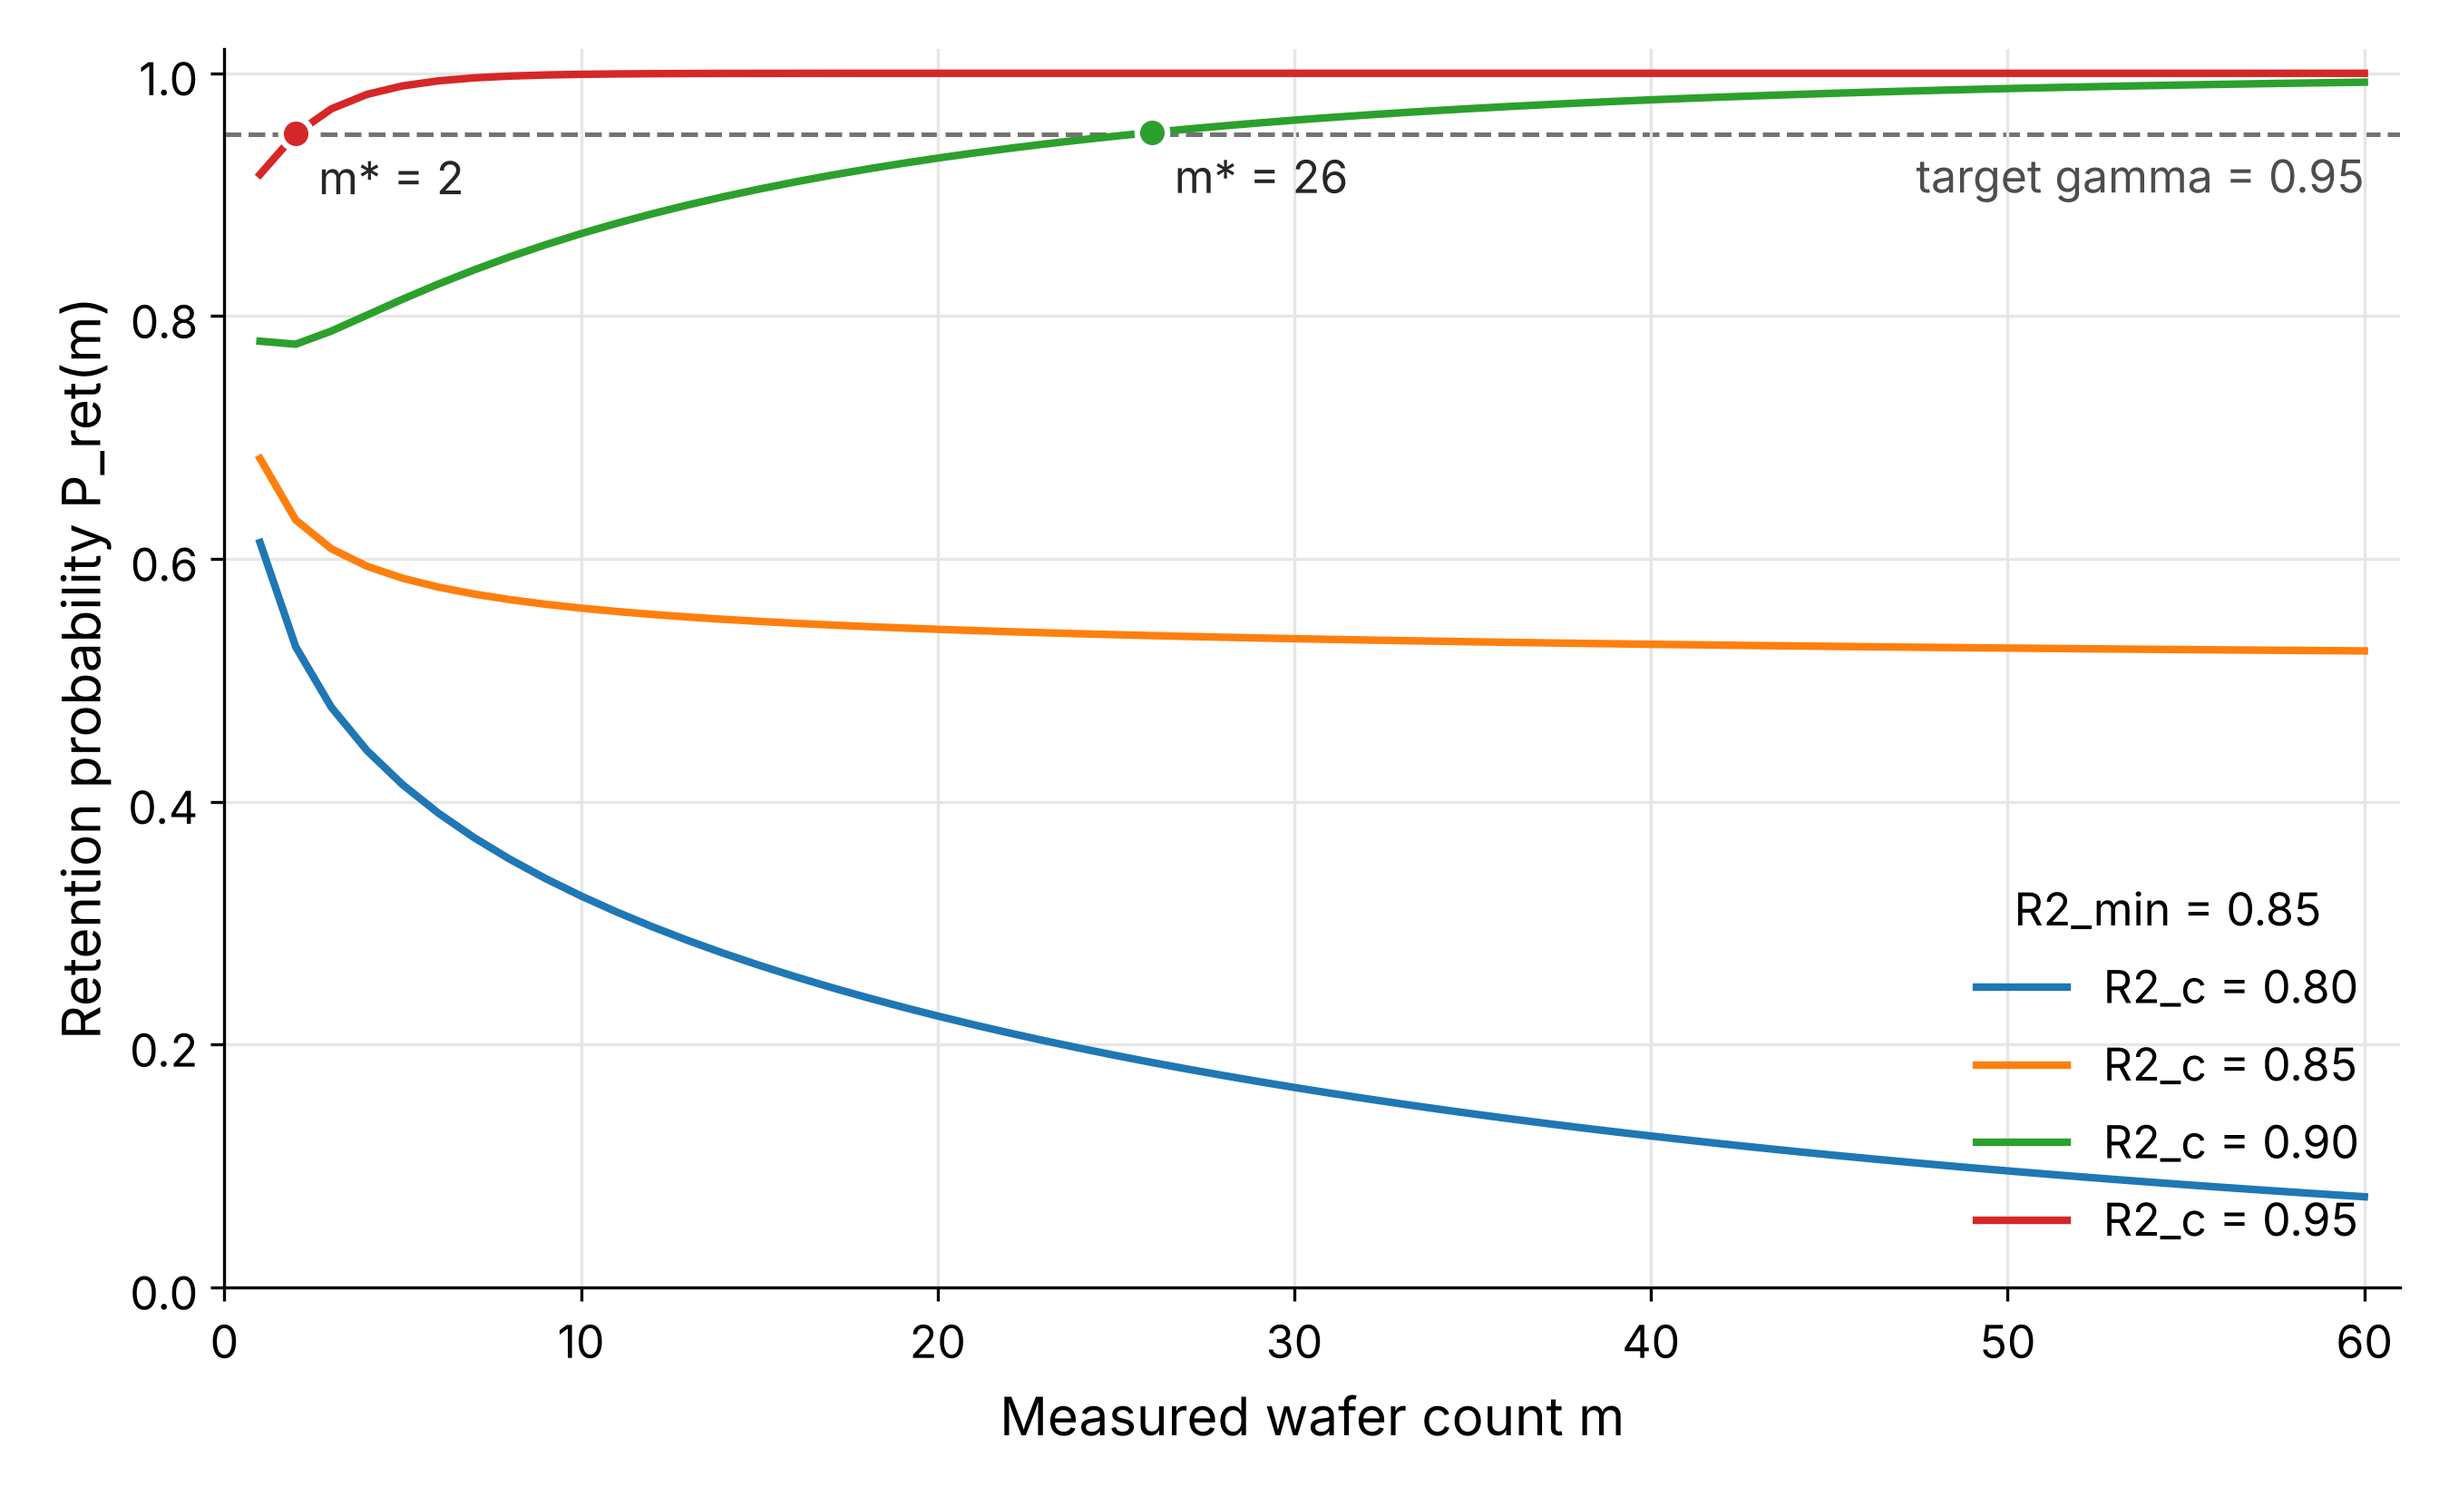
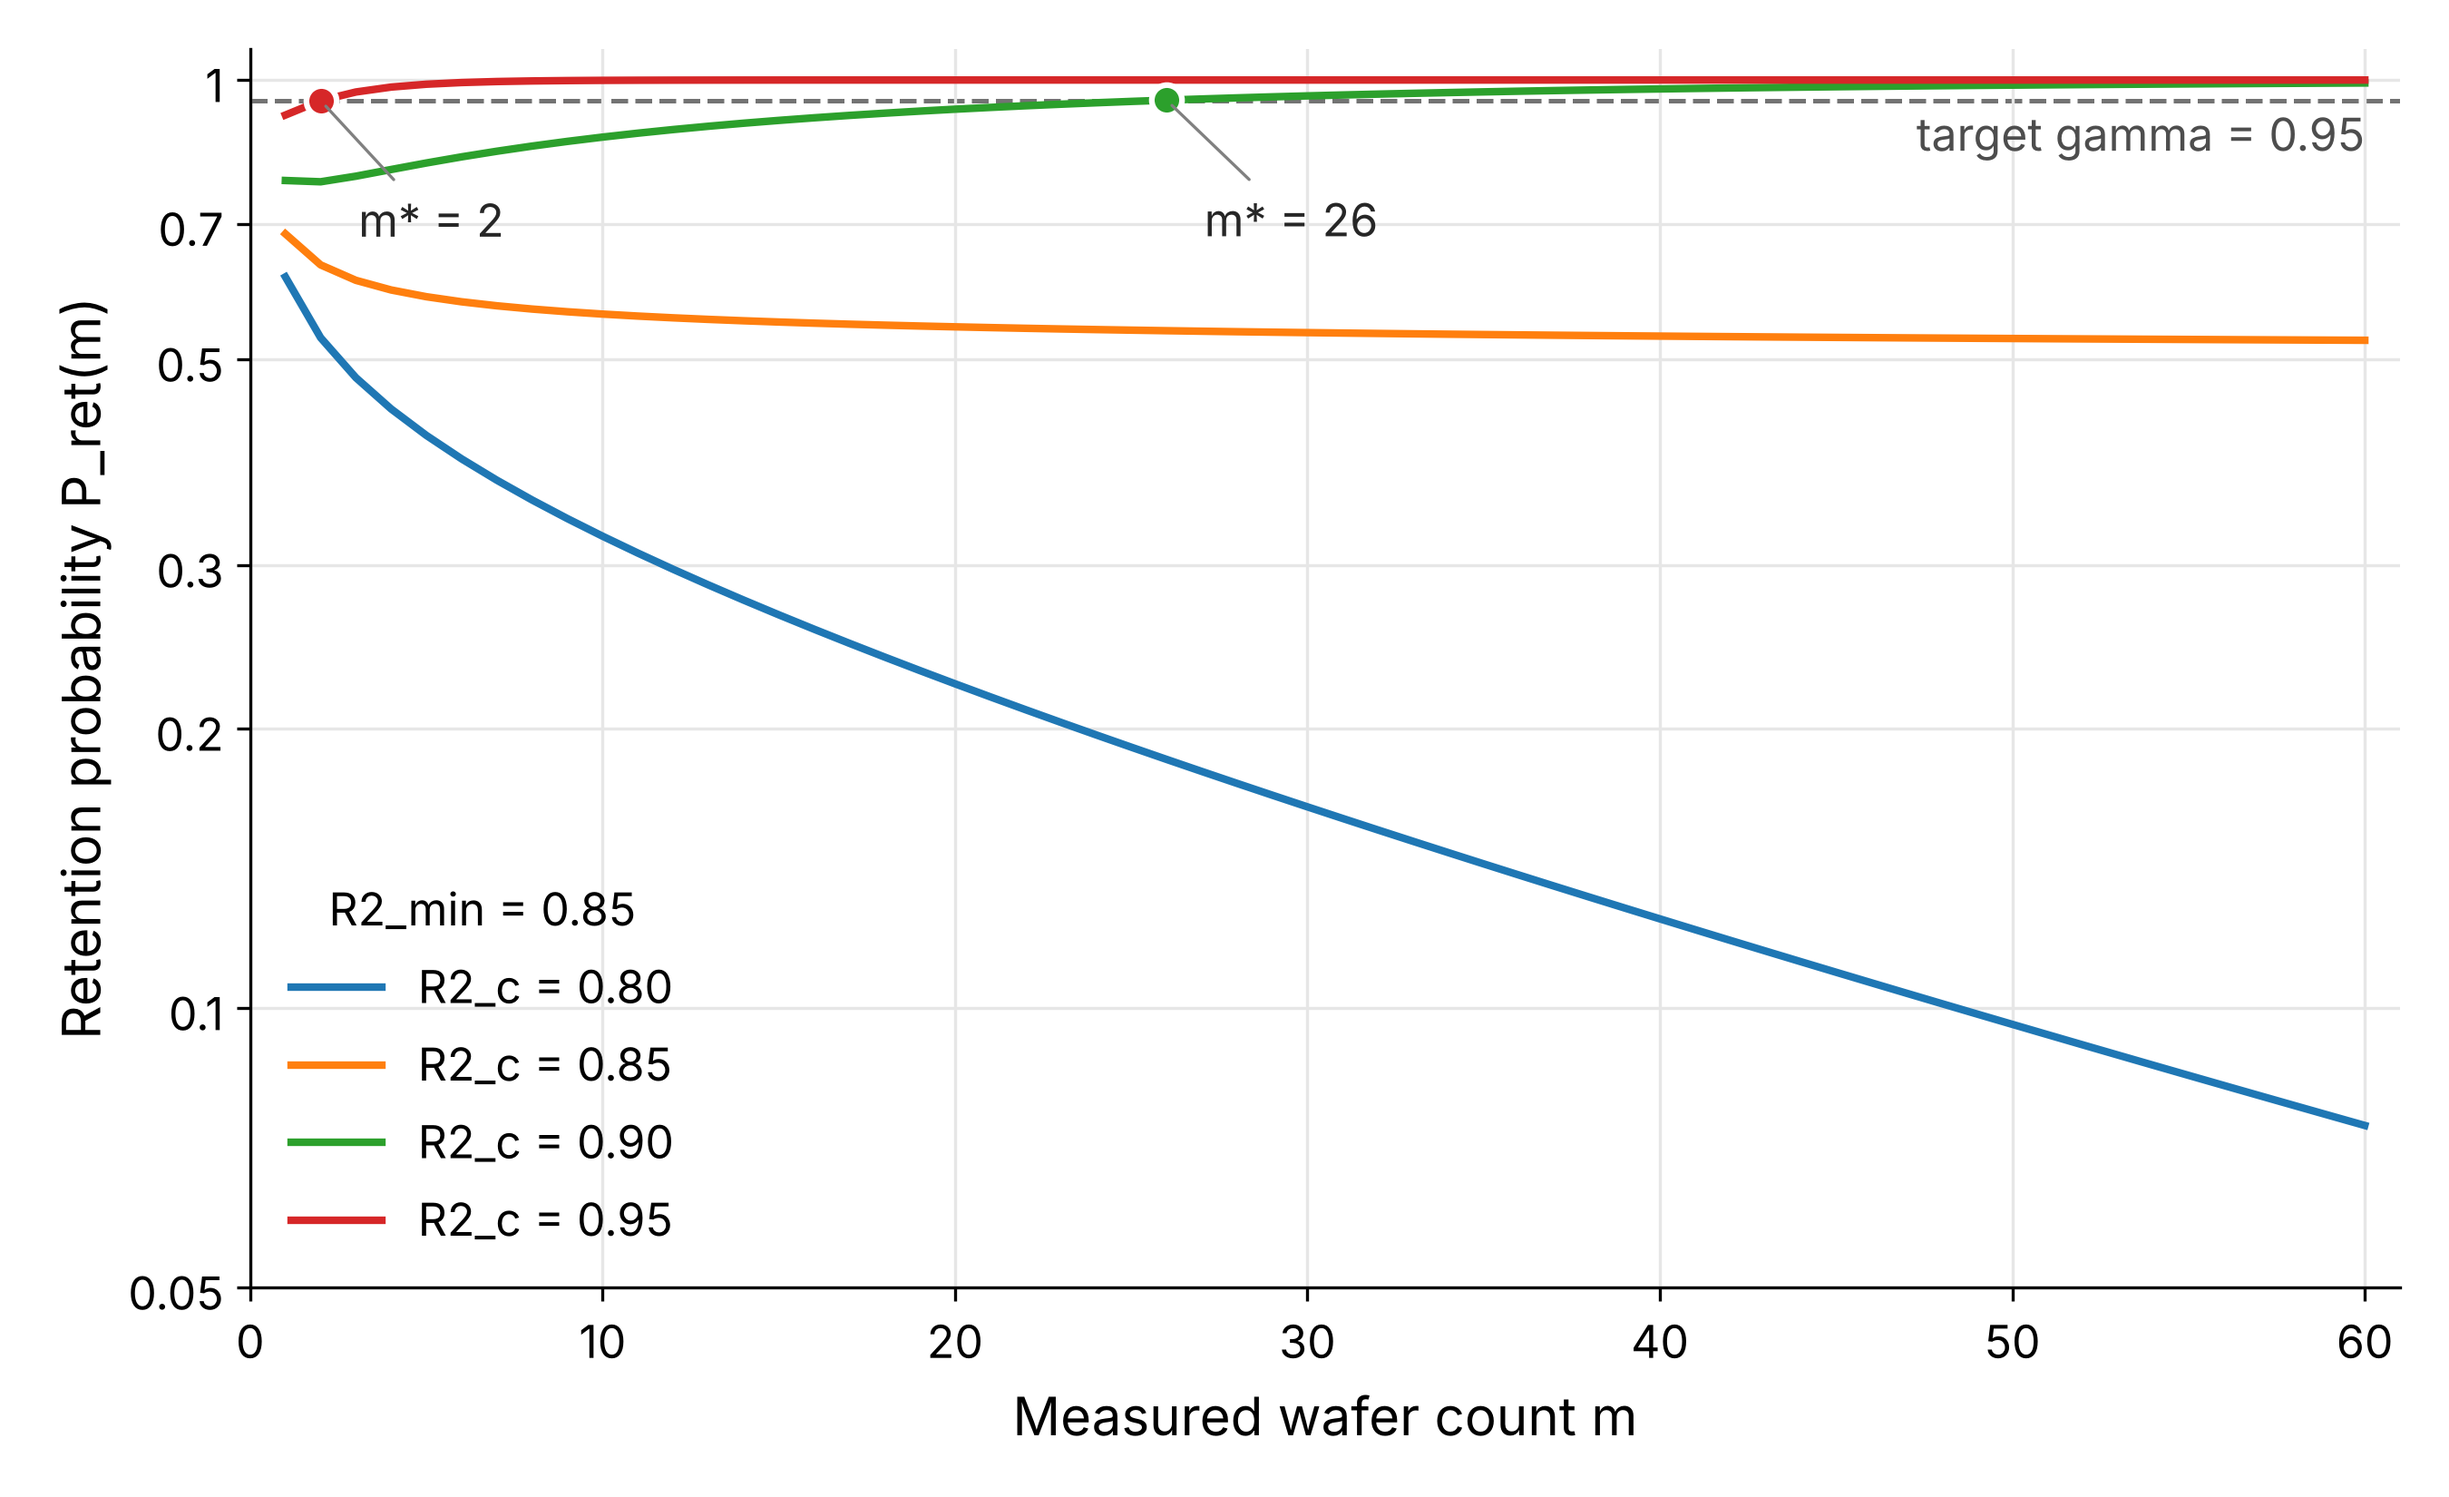
Draw Fig 1 on a log y axis and state that Eq. (9) does not depend on N
Claude-Session: https://claude.ai/code/session_01MWX29BqcVb5TuLyU7SRknu

diff --git a/Deployment/R2-Retention-Probability/src/r2_retention_chart.py b/Deployment/R2-Retention-Probability/src/r2_retention_chart.py
@@ -6,10 +6,11 @@ that line, the wafer measurement count m*, is marked and labelled.
 
 Changelog:
     0.0.0 - Initial release.
+    0.1.0 - Draw the retention probability on a log y axis.
 """
 
 __author__ = 'yRocket'
-__version__ = "0.0.1+20261108"  # Semantic Versioning: Major.Minor.Patch+YYYYMMDD
+__version__ = "0.1.2+20261108"  # Semantic Versioning: Major.Minor.Patch+YYYYMMDD
 
 import argparse
 import pathlib
@@ -22,6 +23,7 @@ matplotlib.use('Agg')
 import matplotlib.pyplot as plt
 import pandas as pd
 from matplotlib.colors import TABLEAU_COLORS
+from matplotlib.ticker import FixedLocator, FuncFormatter, NullLocator
 
 from r2_sampling_ratio import required_measured, retention_probability
 
@@ -33,6 +35,8 @@ FIGSIZE: Final[tuple] = (9.0, 5.5)
 REFERENCE_WIDTH: Final[float] = 9.0
 FONT_SIZES: Final[dict] = {'text': 12.0, 'axis_label': 14.0, 'text_box': 12.0, 'pane_caption': 14.0}  # points
 DPI: Final[int] = 300
+LOG_Y_RANGE: Final[tuple] = (0.05, 1.08)
+LOG_Y_TICKS: Final[list] = [0.05, 0.1, 0.2, 0.3, 0.5, 0.7, 1.0]
 
 
 def retention_curves(r2_models: list = None, r2_min: float = None, max_measured: int = None) -> pd.DataFrame:
@@ -66,7 +70,7 @@ def draw_chart(curves: pd.DataFrame = None, confidence: float = None, figure_pat
 
     fig, ax = plt.subplots(figsize=FIGSIZE)
     ax.axhline(confidence, color='0.45', linestyle='--', linewidth=1.2, zorder=1)
-    ax.text(max_measured, confidence - 0.012, f"target gamma = {confidence:.2f}", ha='right', va='top',
+    ax.text(max_measured, confidence * 0.985, f"target gamma = {confidence:.2f}", ha='right', va='top',
             color='0.30', fontsize=FONT_SIZES['text_box'] * scale)
 
     crossings = []
@@ -80,16 +84,21 @@ def draw_chart(curves: pd.DataFrame = None, confidence: float = None, figure_pat
         if plan.measured is not None:
             ax.plot(plan.measured, plan.retention, marker='o', markersize=8, color=color,
                     markeredgecolor='white', markeredgewidth=1.5, zorder=3)
-            ax.annotate(f"m* = {plan.measured}", xy=(plan.measured, plan.retention), xytext=(6, -16),
-                        textcoords='offset points', color='0.15', fontsize=FONT_SIZES['text_box'] * scale)
+            ax.annotate(f"m* = {plan.measured}", xy=(plan.measured, plan.retention), xytext=(10, -36),
+                        textcoords='offset points', color='0.15', fontsize=FONT_SIZES['text_box'] * scale,
+                        arrowprops={'arrowstyle': '-', 'color': '0.5', 'linewidth': 0.8})
 
     ax.set_xlim(0, max_measured + 1)
-    ax.set_ylim(0.0, 1.02)
+    ax.set_yscale('log')
+    ax.set_ylim(*LOG_Y_RANGE)
+    ax.yaxis.set_major_locator(FixedLocator(LOG_Y_TICKS))
+    ax.yaxis.set_minor_locator(NullLocator())
+    ax.yaxis.set_major_formatter(FuncFormatter(lambda value, _: f'{value:g}'))
     ax.set_xlabel('Measured wafer count m')
     ax.set_ylabel('Retention probability P_ret(m)')
     ax.grid(True, color='0.90', linewidth=0.8)
     ax.spines[['top', 'right']].set_visible(False)
-    ax.legend(title=f"R2_min = {r2_min:.2f}", loc='lower right', frameon=False)
+    ax.legend(title=f"R2_min = {r2_min:.2f}", loc='lower left', frameon=False)
     fig.tight_layout()
     fig.savefig(figure_path, dpi=DPI)
     plt.close(fig)

diff --git a/Deployment/R2-Retention-Probability/r2-retention-probability-ko.md b/Deployment/R2-Retention-Probability/r2-retention-probability-ko.md
@@ -1,5 +1,5 @@
 # R2 Retention Probability
-Version 23 | Created: 2026-11-05 | Updated: 2026-11-08 06:56 UTC
+Version 24 | Created: 2026-11-05 | Updated: 2026-11-08 07:00 UTC
 
 - [1. Purpose](#1-purpose)
 - [2. Summary](#2-summary)
@@ -211,7 +211,8 @@ $R^2_{\min} = 0.85$ 로 두고 $R^2_c$ 를 0.80, 0.85, 0.90, 0.95 로 바꾸어 
 
 Fig 1. Retention probability by measured wafer count
 
-- 가로축은 실측 wafer 수 $m$, 세로축은 식 (9) 의 유지 확률 $P_{\mathrm{ret}}(m)$ 이고, 점선은 목표 유지 확률 $\gamma = 0.95$ 이다.
+- 가로축은 실측 wafer 수 $m$, 세로축은 식 (9) 의 유지 확률 $P_{\mathrm{ret}}(m)$ 을 로그 눈금으로 그린 것이고, 점선은 목표 유지 확률 $\gamma = 0.95$ 이다.
+- 식 (9) 에는 전체 wafer 수 $N$ 이 없어, 곡선은 $N$ 과 관계없이 같다. 다만 $m^{\ast}$ 는 $N \ge m^{\ast}$ 인 lot 에서만 실측할 수 있다.
 - 곡선이 점선에 처음 닿는 점이 $m^{\ast}$ 이다. $R^2_c = 0.95$ 에서 2, $R^2_c = 0.90$ 에서 26 이다.
 - $R^2_c \gt R^2_{\min}$ 인 두 곡선은 $m$ 이 늘수록 1 에 다가가고, $m = 1$ 에서도 0.917 과 0.779 이다.
 - $R^2_c = R^2_{\min}$ 인 곡선은 $m = 1$ 의 0.683 에서 $m = 60$ 의 0.524 로 내려가 0.5 에 다가가고, $R^2_c \lt R^2_{\min}$ 인 곡선은 0.614 에서 0.075 로 내려간다. 두 곡선은 $\gamma$ 에 닿지 않는다.
